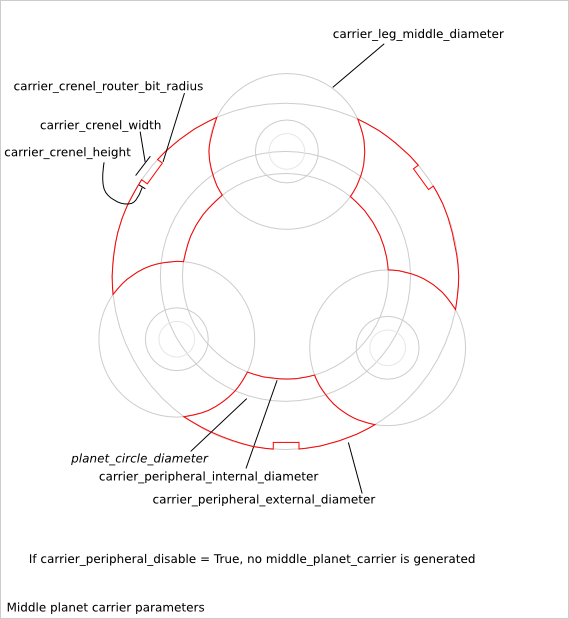
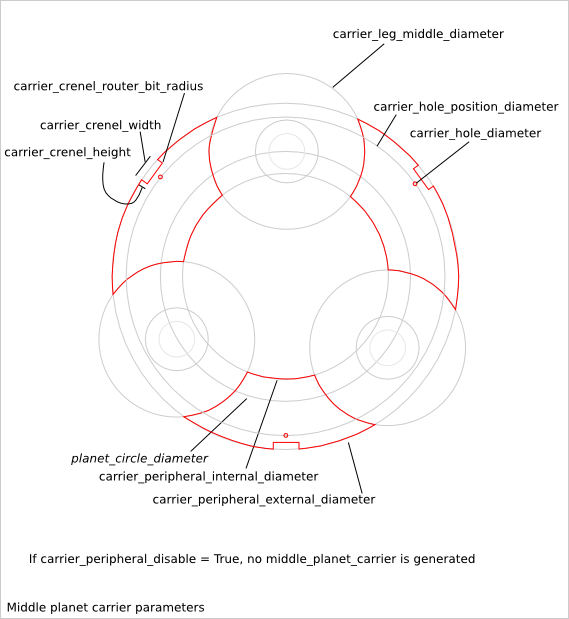
[epicyclic_gearing] add sun/planet crenel-circle and carrier crenel-circle

diff --git a/cnc25d/epicyclic_gearing.py b/cnc25d/epicyclic_gearing.py
@@ -79,15 +79,17 @@ def epicyclic_gearing_dictionary_init():
   r_egd['gear_addendum_height_pourcentage']         = 100.0
   ### sun-gear
   r_egd['sun_axle_diameter']       = 3.0
-  r_egd['sun_crenel_diameter']     = 0.0
   r_egd['sun_crenel_nb']           = 8
+  r_egd['sun_crenel_type']         = 'rectangle' # 'rectangle' or 'circle'
+  r_egd['sun_crenel_diameter']     = 0.0
   r_egd['sun_crenel_width']        = 4.0
   r_egd['sun_crenel_height']       = 2.0
   r_egd['sun_crenel_router_bit_radius']   = 0.1
   ### planet-gear
   r_egd['planet_axle_diameter']      = 3.0
-  r_egd['planet_crenel_diameter']    = 0.0
   r_egd['planet_crenel_nb']          = 8
+  r_egd['planet_crenel_type']        = 'rectangle' # 'rectangle' or 'circle'
+  r_egd['planet_crenel_diameter']    = 0.0
   r_egd['planet_crenel_width']       = 4.0
   r_egd['planet_crenel_height']      = 2.0
   r_egd['planet_crenel_router_bit_radius']  = 0.1
@@ -112,6 +114,8 @@ def epicyclic_gearing_dictionary_init():
   r_egd['carrier_crenel_width']                = 4.0
   r_egd['carrier_crenel_height']               = 2.0
   r_egd['carrier_crenel_router_bit_radius']    = 0.1
+  r_egd['carrier_hole_position_diameter']      = 0.0
+  r_egd['carrier_hole_diameter']               = 0.0
   ### annulus: inherit dictionary entries from gearring
   r_egd.update(gearring.gearring_dictionary_init(1))
   ### general
@@ -163,10 +167,12 @@ def epicyclic_gearing_add_argument(ai_parser):
   ### sun-gear
   r_parser.add_argument('--sun_axle_diameter','--sad', action='store', type=float, default=0.0, dest='sw_sun_axle_diameter',
     help="Set the diameter of the sun-gear cylindrical axle. Default: 0.0")
-  r_parser.add_argument('--sun_crenel_diameter','--scd', action='store', type=float, default=0.0, dest='sw_sun_crenel_diameter',
-    help="Set the diameter of the positioning circle for the sun-crenel. Default: 0.0")
   r_parser.add_argument('--sun_crenel_nb','--scn', action='store', type=int, default=0, dest='sw_sun_crenel_nb',
     help="Set the number of sun-crenels. If equal to zero, no sun-crenel is created. Default: 0")
+  r_parser.add_argument('--sun_crenel_type','--sct', action='store', default='rectangle', dest='sw_sun_crenel_type',
+    help="Select the type of crenel for the sun-gear. Possible values: 'rectangle' or 'circle'. Default: 'rectangle'")
+  r_parser.add_argument('--sun_crenel_diameter','--scd', action='store', type=float, default=0.0, dest='sw_sun_crenel_diameter',
+    help="Set the diameter of the positioning circle for the sun-crenel. Default: 0.0")
   r_parser.add_argument('--sun_crenel_width','--scw', action='store', type=float, default=4.0, dest='sw_sun_crenel_width',
     help="Set the width of the sun-crenel. Default: 4.0")
   r_parser.add_argument('--sun_crenel_height','--sch', action='store', type=float, default=2.0, dest='sw_sun_crenel_height',
@@ -176,10 +182,12 @@ def epicyclic_gearing_add_argument(ai_parser):
   ### planet-gear
   r_parser.add_argument('--planet_axle_diameter','--pad', action='store', type=float, default=0.0, dest='sw_planet_axle_diameter',
     help="Set the diameter of the planet-gear cylindrical axle. Default: 0.0")
-  r_parser.add_argument('--planet_crenel_diameter','--pcd', action='store', type=float, default=0.0, dest='sw_planet_crenel_diameter',
-    help="Set the diameter of the positioning circle for the planet-crenel. Default: 0.0")
   r_parser.add_argument('--planet_crenel_nb','--pcn', action='store', type=int, default=0, dest='sw_planet_crenel_nb',
     help="Set the number of planet-crenels. If equal to zero, no planet-crenel is created. Default: 0")
+  r_parser.add_argument('--planet_crenel_type','--pct', action='store', default='rectangle', dest='sw_planet_crenel_type',
+    help="Select the type of crenel for the planet-gear. Possible values: 'rectangle' or 'circle'. Default: 'rectangle'")
+  r_parser.add_argument('--planet_crenel_diameter','--pcd', action='store', type=float, default=0.0, dest='sw_planet_crenel_diameter',
+    help="Set the diameter of the positioning circle for the planet-crenel. Default: 0.0")
   r_parser.add_argument('--planet_crenel_width','--pcw', action='store', type=float, default=4.0, dest='sw_planet_crenel_width',
     help="Set the width of the planet-crenel. Default: 4.0")
   r_parser.add_argument('--planet_crenel_height','--pch', action='store', type=float, default=2.0, dest='sw_planet_crenel_height',
@@ -214,6 +222,10 @@ def epicyclic_gearing_add_argument(ai_parser):
     help="Set the height of the carrier-crenel. Default: 2.0")
   r_parser.add_argument('--carrier_crenel_router_bit_radius','--ccrbr', action='store', type=float, default=0.1, dest='sw_carrier_crenel_router_bit_radius',
     help="Set the router_bit radius for the carrier-crenel. Default: 0.1")
+  r_parser.add_argument('--carrier_hole_position_diameter','--cchpd', action='store', type=float, default=0.0, dest='sw_carrier_hole_position_diameter',
+    help="Set the diameter of the position circle of the carrier-crenel-holes. Default: 0.0")
+  r_parser.add_argument('--carrier_hole_diameter','--cchd', action='store', type=float, default=0.0, dest='sw_carrier_hole_diameter',
+    help="Set the diameter of the carrier-crenel-holes. If equal zero, no carrier-crenel-hole are generated. Default: 0.0")
   ### annulus: inherit dictionary entries from gearring
   r_parser = gearring.gearring_add_argument(r_parser, 1)
   ### cnc router_bit constraint
@@ -358,6 +370,7 @@ def epicyclic_gearing(ai_constraints):
   pg_c['axle_router_bit_radius']    = planet_crenel_router_bit_radius
   pg_c['crenel_diameter']           = eg_c['planet_crenel_diameter'] # crenel
   pg_c['crenel_number']             = eg_c['planet_crenel_nb']
+  pg_c['crenel_type']               = eg_c['planet_crenel_type']
   pg_c['crenel_angle']              = 0
   pg_c['crenel_width']              = eg_c['planet_crenel_width']
   pg_c['crenel_height']             = eg_c['planet_crenel_height']
@@ -398,6 +411,7 @@ def epicyclic_gearing(ai_constraints):
   sg_c['axle_router_bit_radius']    = sun_crenel_router_bit_radius
   sg_c['crenel_diameter']           = eg_c['sun_crenel_diameter'] # crenel
   sg_c['crenel_number']             = eg_c['sun_crenel_nb']
+  sg_c['crenel_type']               = eg_c['sun_crenel_type']
   sg_c['crenel_angle']              = 0
   sg_c['crenel_width']              = eg_c['sun_crenel_width']
   sg_c['crenel_height']             = eg_c['sun_crenel_height']
@@ -492,6 +506,10 @@ def epicyclic_gearing(ai_constraints):
   carrier_peripheral_disable = eg_c['carrier_peripheral_disable']
   carrier_hollow_disable = eg_c['carrier_hollow_disable']
   carrier_leg_hole_radius = eg_c['carrier_leg_hole_diameter']/2.0
+  carrier_hole_position_radius = eg_c['carrier_hole_position_diameter']/2.0
+  if(carrier_hole_position_radius==0):
+    carrier_hole_position_radius = ((sun_planet_length+carrier_leg_hole_radius)+(carrier_peripheral_external_radius-eg_c['carrier_crenel_height']))/2.0
+  carrier_hole_radius = eg_c['carrier_hole_diameter']/2.0
   ## parameter check
   if(eg_c['cnc_router_bit_radius']>carrier_smoothing_radius):
     carrier_smoothing_radius = eg_c['cnc_router_bit_radius']
@@ -522,6 +540,13 @@ def epicyclic_gearing(ai_constraints):
     else:
       carrier_crenel_type = 1
   #print("dbg509: carrier_crenel_router_bit_radius {:0.3f}  carrier_crenel_type {:d}".format(carrier_crenel_router_bit_radius, carrier_crenel_type))
+  if(carrier_hole_radius>0):
+    if(carrier_hole_position_radius<(sun_planet_length+carrier_leg_hole_radius+carrier_hole_radius+radian_epsilon)):
+      print("ERR544: Error, carrier_hole_position_radius {:0.3f} is too small compare to sun_planet_length {:0.3f}, carrier_leg_hole_radius {:0.3f} and carrier_hole_radius {:0.3f}".format(carrier_hole_position_radius, sun_planet_length, carrier_leg_hole_radius, carrier_hole_radius))
+      sys.exit(2)
+    if(carrier_hole_position_radius>(carrier_peripheral_external_radius-eg_c['carrier_crenel_height']-carrier_hole_radius-radian_epsilon)):
+      print("ERR548: Error, carrier_hole_position_radius {:0.3f} is too big compare to carrier_peripheral_external_radius {:0.3f} carrier_crenel_height {:0.3f} and carrier_hole_radius {:0.3f}".format(carrier_hole_position_radius, carrier_peripheral_external_radius, eg_c['carrier_crenel_height'], carrier_hole_radius))
+      sys.exit(2)
   
   ## carrier_crenel_outline function
   def carrier_crenel_outline(nai_radius):
@@ -615,6 +640,11 @@ def epicyclic_gearing(ai_constraints):
     for i in range(planet_nb):
       tmp_a = first_planet_position_angle + i * leg_hole_portion
       front_planet_carrier_figure.append((0.0+sun_planet_length*math.cos(tmp_a), 0.0+sun_planet_length*math.sin(tmp_a), carrier_leg_hole_radius))
+  carrier_hole_portion = 2*math.pi/(2*planet_nb)
+  if(carrier_hole_radius>0):
+    for i in range(2*planet_nb):
+      tmp_a = first_planet_position_angle + i * carrier_hole_portion
+      front_planet_carrier_figure.append((0.0+carrier_hole_position_radius*math.cos(tmp_a), 0.0+carrier_hole_position_radius*math.sin(tmp_a), carrier_hole_radius))
   # copy for the rear_planet_carrier_figure
   front_planet_carrier_figure_copy = front_planet_carrier_figure[:]
   #print("dbg573: len(front_planet_carrier_figure_copy[0]) {:d}".format(len(front_planet_carrier_figure_copy[0])))
@@ -721,6 +751,12 @@ def epicyclic_gearing(ai_constraints):
     for i in range(planet_nb):
       middle_planet_carrier_figures.append( [ cnc25d_api.outline_rotate(middle_planet_carrier_outline, 0.0, 0.0, (i+0.5)*leg_hole_portion) ] )
     middle_planet_carrier_figure_overlay = [ cnc25d_api.outline_rotate(middle_planet_carrier_outline_overlay, 0.0, 0.0, (0+0.5)*leg_hole_portion) ]
+    ## add carrier-crenel-hole
+    if(carrier_hole_radius>0):
+      for i in range(planet_nb):
+        ta = (i+0.5)*leg_hole_portion + first_planet_position_angle
+        middle_planet_carrier_figures[i].append((0.0+carrier_hole_position_radius*math.cos(ta), 0.0+carrier_hole_position_radius*math.sin(ta), carrier_hole_radius))
+      
   
   ### design output
   part_figure_list = []
@@ -866,15 +902,17 @@ def epicyclic_gearing_argparse_to_dictionary(ai_eg_args):
   r_egd['gear_addendum_height_pourcentage']         =  ai_eg_args.sw_gear_addendum_height_pourcentage
   ### sun-gear
   r_egd['sun_axle_diameter']       = ai_eg_args.sw_sun_axle_diameter
-  r_egd['sun_crenel_diameter']     = ai_eg_args.sw_sun_crenel_diameter
   r_egd['sun_crenel_nb']           = ai_eg_args.sw_sun_crenel_nb
+  r_egd['sun_crenel_type']         = ai_eg_args.sw_sun_crenel_type
+  r_egd['sun_crenel_diameter']     = ai_eg_args.sw_sun_crenel_diameter
   r_egd['sun_crenel_width']        = ai_eg_args.sw_sun_crenel_width
   r_egd['sun_crenel_height']       = ai_eg_args.sw_sun_crenel_height
   r_egd['sun_crenel_router_bit_radius']   = ai_eg_args.sw_sun_crenel_router_bit_radius
   ### planet-gear
   r_egd['planet_axle_diameter']      = ai_eg_args.sw_planet_axle_diameter
-  r_egd['planet_crenel_diameter']    = ai_eg_args.sw_planet_crenel_diameter
   r_egd['planet_crenel_nb']          = ai_eg_args.sw_planet_crenel_nb
+  r_egd['planet_crenel_type']        = ai_eg_args.sw_planet_crenel_type
+  r_egd['planet_crenel_diameter']    = ai_eg_args.sw_planet_crenel_diameter
   r_egd['planet_crenel_width']       = ai_eg_args.sw_planet_crenel_width
   r_egd['planet_crenel_height']      = ai_eg_args.sw_planet_crenel_height
   r_egd['planet_crenel_router_bit_radius']  = ai_eg_args.sw_planet_crenel_router_bit_radius
@@ -893,6 +931,8 @@ def epicyclic_gearing_argparse_to_dictionary(ai_eg_args):
   r_egd['carrier_crenel_width']                = ai_eg_args.sw_carrier_crenel_width
   r_egd['carrier_crenel_height']               = ai_eg_args.sw_carrier_crenel_height
   r_egd['carrier_crenel_router_bit_radius']    = ai_eg_args.sw_carrier_crenel_router_bit_radius
+  r_egd['carrier_hole_position_diameter']      = ai_eg_args.sw_carrier_hole_position_diameter
+  r_egd['carrier_hole_diameter']               = ai_eg_args.sw_carrier_hole_diameter
   ### annulus: inherit dictionary entries from gearring
   r_egd.update(gearring.gearring_argparse_to_dictionary(ai_eg_args, 1))
   ### general
@@ -945,6 +985,8 @@ def epicyclic_gearing_self_test():
     ["carrier without peripheral and with crenel", "--sun_gear_tooth_nb 19 --planet_gear_tooth_nb 31 --gear_module 1.0 --carrier_peripheral_disable --carrier_central_diameter 30.0"],
     ["carrier without peripheral and crenel", "--sun_gear_tooth_nb 19 --planet_gear_tooth_nb 31 --gear_module 1.0 --carrier_peripheral_disable --carrier_crenel_height 0 --carrier_central_diameter 30.0"],
     ["carrier without peripheral and small central circle", "--sun_gear_tooth_nb 19 --planet_gear_tooth_nb 31 --gear_module 1.0 --carrier_peripheral_disable --carrier_central_diameter 20.0"],
+    ["sun crenel circle"    , "--sun_gear_tooth_nb 19 --planet_gear_tooth_nb 31 --gear_module 1.0 --sun_axle_diameter 8 --sun_crenel_nb 6 --sun_crenel_type circle --sun_crenel_width 1.9 --sun_crenel_diameter 12"],
+    ["carrier crenel hole"  , "--sun_gear_tooth_nb 19 --planet_gear_tooth_nb 31 --gear_module 1.0 --carrier_hole_diameter 1.9"],
     ["gear simulation"      , "--sun_gear_tooth_nb 19 --planet_gear_tooth_nb 33 --gear_module 1.0 --gear_addendum_dedendum_parity_slack 1.5 --simulation_annulus_planet_gear"],
     ["output file"          , "--sun_gear_tooth_nb 21 --planet_gear_tooth_nb 31 --gear_module 1.0 --output_file_basename test_output/epicyclic_self_test.dxf"],
     ["last test"            , "--sun_gear_tooth_nb 19 --planet_gear_tooth_nb 31 --gear_module 1.0"]]

diff --git a/bin/cnc25d_example_generator.py b/bin/cnc25d_example_generator.py
@@ -1851,15 +1851,17 @@ eg_constraint['gearring_dedendum_to_hollow_pourcentage']  = 0.0
 eg_constraint['gear_addendum_height_pourcentage']         = 100.0
 ### sun-gear
 eg_constraint['sun_axle_diameter']       = 12.0
-eg_constraint['sun_crenel_diameter']     = 0.0
 eg_constraint['sun_crenel_nb']           = 4
+eg_constraint['sun_crenel_type']         = 'rectangle' # 'rectangle' or 'circle'
+eg_constraint['sun_crenel_diameter']     = 0.0
 eg_constraint['sun_crenel_width']        = 3.0
 eg_constraint['sun_crenel_height']       = 1.0
 eg_constraint['sun_crenel_router_bit_radius']   = 0.1
 ### planet-gear
 eg_constraint['planet_axle_diameter']      = 10.0
-eg_constraint['planet_crenel_diameter']    = 0.0
 eg_constraint['planet_crenel_nb']          = 0
+eg_constraint['planet_crenel_type']        = 'rectangle' # 'rectangle' or 'circle'
+eg_constraint['planet_crenel_diameter']    = 0.0
 eg_constraint['planet_crenel_width']       = 4.0
 eg_constraint['planet_crenel_height']      = 2.0
 eg_constraint['planet_crenel_router_bit_radius']  = 0.1
@@ -1877,6 +1879,8 @@ eg_constraint['carrier_leg_hole_diameter']              = 10.0
 eg_constraint['carrier_crenel_width']                = 4.0
 eg_constraint['carrier_crenel_height']               = 2.0
 eg_constraint['carrier_crenel_router_bit_radius']    = 0.1
+eg_constraint['carrier_hole_position_diameter']      = 0.0
+eg_constraint['carrier_hole_diameter']               = 0.0
 ### annulus: inherit dictionary entries from gearring
 ### holder
 eg_constraint['holder_diameter']            = 0.0

diff --git a/cnc25d/tests/epicyclic_gearing_macro.py b/cnc25d/tests/epicyclic_gearing_macro.py
@@ -101,15 +101,17 @@ eg_constraint['gearring_dedendum_to_hollow_pourcentage']  = 0.0
 eg_constraint['gear_addendum_height_pourcentage']         = 100.0
 ### sun-gear
 eg_constraint['sun_axle_diameter']       = 12.0
-eg_constraint['sun_crenel_diameter']     = 0.0
 eg_constraint['sun_crenel_nb']           = 4
+eg_constraint['sun_crenel_type']         = 'rectangle' # 'rectangle' or 'circle'
+eg_constraint['sun_crenel_diameter']     = 0.0
 eg_constraint['sun_crenel_width']        = 3.0
 eg_constraint['sun_crenel_height']       = 1.0
 eg_constraint['sun_crenel_router_bit_radius']   = 0.1
 ### planet-gear
 eg_constraint['planet_axle_diameter']      = 10.0
-eg_constraint['planet_crenel_diameter']    = 0.0
 eg_constraint['planet_crenel_nb']          = 0
+eg_constraint['planet_crenel_type']        = 'rectangle' # 'rectangle' or 'circle'
+eg_constraint['planet_crenel_diameter']    = 0.0
 eg_constraint['planet_crenel_width']       = 4.0
 eg_constraint['planet_crenel_height']      = 2.0
 eg_constraint['planet_crenel_router_bit_radius']  = 0.1
@@ -127,6 +129,8 @@ eg_constraint['carrier_leg_hole_diameter']              = 10.0
 eg_constraint['carrier_crenel_width']                = 4.0
 eg_constraint['carrier_crenel_height']               = 2.0
 eg_constraint['carrier_crenel_router_bit_radius']    = 0.1
+eg_constraint['carrier_hole_position_diameter']      = 0.0
+eg_constraint['carrier_hole_diameter']               = 0.0
 ### annulus: inherit dictionary entries from gearring
 ### holder
 eg_constraint['holder_diameter']            = 0.0
